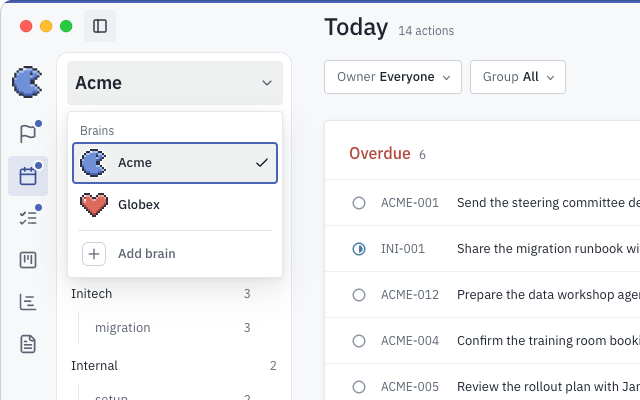
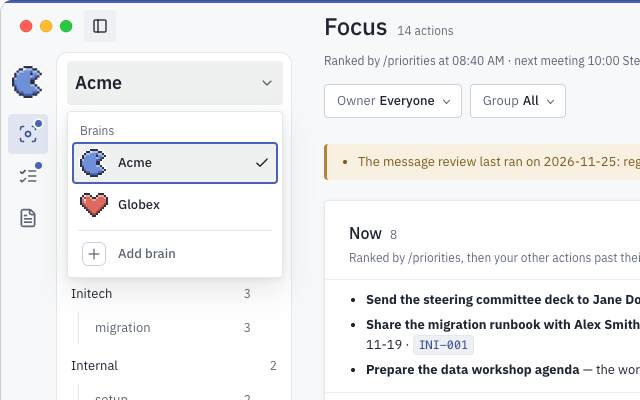
docs(tasks-web): describe focus, the view tabs and the sync button
Rewrite the tour of the Corvus README around the three sections, the
row of tabs, the Focus page, the Sync button and the folded rail, and
update the root README, BRAINS.md and the tools index. Retake the
screenshots from a demo workspace of fictitious brains; one Focus
screenshot replaces the Today and Priorities ones.

diff --git a/tools/tasks-web/README.md b/tools/tasks-web/README.md
@@ -2,7 +2,7 @@
 
 Corvus is the local app of Work: it shows the actions and the notes of your brains, and lets you change them without an agent. It opens in a window of its own on macOS, Windows and Linux, or in a browser tab. Everything stays on your computer: the server listens on `127.0.0.1` only, keeps no copy of your data and writes every change into the brain's own Markdown files, which your agents read too. Back to the [root README](../../README.md).
 
-![Corvus on macOS: the Today view, with the rail of views and the project card](../../docs/images/tasks-web-today.png)
+![Corvus on macOS: the Focus page, with the rail of sections and the project card](../../docs/images/tasks-web-focus.png)
 
 This guide first lists what Corvus does, then shows how its parts fit together, how to install it and how to launch it. It ends with a tour of the views and the keyboard shortcuts.
 
@@ -10,9 +10,9 @@ This guide first lists what Corvus does, then shows how its parts fit together, 
 
 Corvus brings the registers of every brain into one window, so that the day's work can be read and updated in a few clicks.
 
-- Today gathers what is overdue, due today, in progress, waiting on someone else and due in the week ahead.
+- Focus answers one question on one page, what to do now: the ranking of the `/priorities` agent skill, then what is overdue, due today, in progress, to chase, waiting on someone else and due in the week ahead.
 - Every action can be changed in place (status, owner, due date, priority, subtasks, notes), and every change can be undone.
-- The Board, the Timeline and the Docs view show the same actions as columns, as dates and next to the notes of each project.
+- Actions shows the same actions as a list, a board or a timeline, with the same filters, and Docs shows them next to the notes of each project.
 - One search field looks through the actions and every Markdown document of the brain.
 - A selector switches between your brains without restarting anything, and each brain keeps its own colour and logo.
 - Sync saves and sends the changes of each brain, and brings in the changes made on another computer.
@@ -53,43 +53,49 @@ Then open `http://127.0.0.1:8765/` (`--port N` for another port, `Ctrl+C` to sto
 
 ## Tour
 
-The tour follows the sidebar from top to bottom: the views of the day, then the brains, Sync and the window itself.
+The sidebar holds three sections, Focus, Actions and Docs, and Settings at the bottom. Under the title, a row of tabs lists the views of the section (for example List, Board and Timeline). A section opens on the view used last, and its views share the same filters. Sync is the button at the top right. The tour follows that order, then shows the brains, the window and the updates.
 
-### Today
+### Focus
 
-The opening view lists your overdue actions, those due today, those in progress, the follow-ups to make with others and what you wait on, then the week ahead. Each action appears once, in the first section that fits.
+**Focus** is the opening page. It brings together the ranking that the `/priorities` agent skill writes for the brain and the actions of the registers, so that the next thing to do is at the top. A line under the title says when the ranking was written and names the next meeting.
 
-### Priorities
+- **Now** lists the ranked items to do now, then the other actions past their due date or due today.
+- **To prepare**, **Conflicts** and **New requests** come from the ranking.
+- **In progress**, **To chase**, **Waiting on others** and **This week** come from the registers; To chase and Waiting on others are sorted by owner, and each follow-up carries a draft of the message with a button to copy it.
 
-The ranking written by the `/priorities` agent skill for the current brain: what to do now, what to prepare, the conflicts and the follow-ups. An action ID in an item opens that action, and each follow-up carries a draft of the message with a button to copy it.
+Each action appears once, in the first block that fits, and an empty block is left out. An action ID in a ranked item opens that action. When the ranking is not today's, or a project is chosen, the page shows the actions alone and says why.
 
-![The Priorities view](../../docs/images/tasks-web-priorities.png)
+### Actions: List, Board and Timeline
 
-### Actions and the detail panel
+The three views show the same actions with the same filters.
 
-Actions are listed by project and group, each with its progress and its overdue count. A click on the status or the due date changes it in place; a click on a row opens the detail panel with the fields, the subtasks and the history of notes. Every write goes through `action.py` and can be undone. Dragging the left edge of the panel widens it.
+- **List** groups the actions by project and group, each with its progress and its overdue count. A click on the status or the due date changes it in place; a click on a row opens the detail panel with the fields, the subtasks and the history of notes. Every write goes through `action.py` and can be undone, and dragging the left edge of the panel widens it.
+- **Board** has four columns, To do, In progress, Waiting and Recently done. Dragging a card changes its status. The board shows your own cards unless you switch to Everyone.
+- **Timeline** places the actions with a deadline on a chronological frieze (2 weeks, 6 weeks or a quarter), one lane per project, overdue first. Those without a deadline wait in a tray below: dropping one on a day plans it.
 
-![Actions grouped by project](../../docs/images/tasks-web-actions.png)
+![Actions as a list, grouped by project](../../docs/images/tasks-web-actions.png)
 
 ![An action in the detail panel](../../docs/images/tasks-web-action-panel.png)
 
-### Board
+![Actions as a board](../../docs/images/tasks-web-board.png)
 
-Four columns, To do, In progress, Waiting and Recently done. Dragging a card changes its status. The board shows your own cards unless you switch to Everyone.
+![Actions on the timeline](../../docs/images/tasks-web-timeline.png)
 
-![The Board](../../docs/images/tasks-web-board.png)
+### Docs: Docs and Archives
 
-### Timeline
-
-The actions with a deadline sit on a chronological frieze (2 weeks, 6 weeks or a quarter), one lane per project, overdue first. Those without a deadline wait in a tray below: dropping one on a day plans it.
-
-![The Timeline](../../docs/images/tasks-web-timeline.png)
-
-### Docs and search
-
-The notes, sources, workstreams, journal and project pages of the brain, with a reader and a Markdown editor for working notes. The search field, in every view, looks through the actions and every Markdown document at once.
+**Docs** shows the notes, sources, workstreams, journal and project pages of the brain, with a reader and a Markdown editor for working notes. **Archives** lists the clients, missions and projects moved to an archive, read-only, and can bring one back. The search field, in every view, looks through the actions and every Markdown document at once.
 
 ![Docs, with a note open](../../docs/images/tasks-web-docs.png)
+
+### Sync
+
+Each brain is a Git repository. The Sync button at the top right shows, for the current brain, how many changes made on another computer are waiting online, or a dot when notes are waiting to be saved and sent; a click opens the Sync view. That view shows one card per brain. **Save and send** records the changed notes and sends them to the brain's online copy, through the brain's own Git hooks. Corvus checks the online copies when it opens and every ten minutes; when a brain is behind, its card offers **Sync**, which brings the changes in as a fast-forward only, never with a merge commit or a rewrite of history.
+
+![The Sync view, with a brain to bring up to date](../../docs/images/tasks-web-sync.png)
+
+### Settings: Settings and Tools
+
+**Settings** shows what is left to set up in the workspace and the settings that can be changed. **Tools** runs the workspace commands; none of them sends anything to an external service.
 
 ### Brains
 
@@ -97,17 +103,11 @@ The brain's name at the top of the sidebar opens the brain menu: it switches bra
 
 ![The brain menu](../../docs/images/tasks-web-brain-menu.png)
 
-### Sync
-
-Each brain is a Git repository. The Sync view shows one card per brain and says what is waiting: notes to save and send, or changes made on another computer. **Save and send** records the changed notes and sends them to the brain's online copy, through the brain's own Git hooks. Corvus checks the online copies when it opens and every ten minutes; when a brain is behind, its card and the sidebar offer **Sync**, which brings the changes in as a fast-forward only, never with a merge commit or a rewrite of history.
-
-![The Sync view, with a brain to bring up to date](../../docs/images/tasks-web-sync.png)
-
 ### Sidebar, window and dark mode
 
-On the left, a rail holds the views and, at the bottom, Archives, Tools, Sync and Settings. Next to it, the project card lists the projects of the brain; its edge can be dragged to widen it. The sidebar button, or the `[` key, folds the card away; the pointer on a view then shows the card over the page, with that view named above the projects, and a project chosen there opens in that view. On macOS the window has no separate title bar: its three buttons sit at the top of the rail. The page follows the light or dark setting of the system.
+On the left, a rail holds the three sections and, at the bottom, Settings. Next to it, the project card lists the projects of the brain; its edge can be dragged to widen it. The sidebar button, or the `[` key, folds the card away. The rail then shows the main projects by their first letters: the pointer on one gives its full name and its number of open actions, and a click filters the view. The pointer on Focus, Actions or Docs shows the card over the page, with the view it will open named above the projects. In Archives, Tools, Settings and Sync, which the projects do not filter, the card steps aside. The window has the same layout on macOS, Windows and Linux; on macOS it has no separate title bar, and its three buttons sit at the top left, before the sidebar button. The page follows the light or dark setting of the system.
 
-![The card folded away, shown again over the page from the Timeline icon, in dark mode](../../docs/images/tasks-web-rail-dark.png)
+![The card folded away, shown again over the page from the Actions icon, in dark mode](../../docs/images/tasks-web-rail-dark.png)
 
 ### Update
 
@@ -123,8 +123,9 @@ The single keys do not apply while typing in a field. `?` shows their help, and 
 |---|---|
 | `/` | Search the actions and the documents |
 | `n` | New action |
-| `0` to `5` | Priorities, Today, Actions, Board, Timeline, Docs |
-| `j` `k`, `↓` `↑` | Next or previous action (Today, Actions, Board, Timeline) |
+| `1` to `3` | Focus, Actions, Docs, each on the view used last |
+| `v`, ⇧ `v` | Next or previous view of the section (List, Board, Timeline…) |
+| `j` `k`, `↓` `↑` | Next or previous action (Focus, List, Board, Timeline) |
 | `←` `→` `↑` `↓` | On a Timeline chip: by date, and by project |
 | Alt `←` `→` | On a Timeline chip: move its deadline by a day (with Shift, a week) |
 | Enter | Open the details of the selected action |
@@ -143,7 +144,7 @@ In a list, only the selected row (otherwise the first one) is in the tab order: 
 
 [`REFERENCE.md`](REFERENCE.md) holds the details:
 - [Install the app](REFERENCE.md#install-the-app) and the [layout](REFERENCE.md#layout).
-- The views and their routes: [Priorities](REFERENCE.md#priorities), [Today](REFERENCE.md#today), [Actions](REFERENCE.md#actions-and-detail-panel), [Board](REFERENCE.md#board), [Timeline](REFERENCE.md#timeline), [Groups](REFERENCE.md#groups), [Docs and Search](REFERENCE.md#docs-and-search), [Archives](REFERENCE.md#archives), [Tools](REFERENCE.md#tools), [Sync](REFERENCE.md#sync), [Update](REFERENCE.md#update) and [Settings](REFERENCE.md#settings).
+- The views and their routes: [Focus](REFERENCE.md#focus), [Actions](REFERENCE.md#actions-and-detail-panel), [Board](REFERENCE.md#board), [Timeline](REFERENCE.md#timeline), [Groups](REFERENCE.md#groups), [Docs and Search](REFERENCE.md#docs-and-search), [Archives](REFERENCE.md#archives), [Tools](REFERENCE.md#tools), [Sync](REFERENCE.md#sync), [Update](REFERENCE.md#update) and [Settings](REFERENCE.md#settings).
 - [Several brains](REFERENCE.md#several-brains).
 - The [priorities file format](REFERENCE.md#priorities-file).
 - [Data and security](REFERENCE.md#data-and-security).

diff --git a/README.md b/README.md
@@ -19,7 +19,7 @@
 
 Work is a portable `Work/` workspace that fixes this. Memory lives in private Markdown repositories called brains, one per trust boundary. Agents read them through small commands that return only the part a question needs. Git hooks keep the boundaries intact. A local app, Corvus, lets you read and edit the same files without an agent. The repository holds the tools, the shared conventions and the checks. It holds no client data.
 
-![Corvus, the local app: the Today view](docs/images/tasks-web-today.png)
+![Corvus, the local app: the Focus page](docs/images/tasks-web-focus.png)
 
 ## Features
 
@@ -27,13 +27,13 @@ Work is a portable `Work/` workspace that fixes this. Memory lives in private Ma
 - **Context on demand.** `brain-state.py` loads output, not files: `brief` for where a project stands, `find` for a term or an identifier, `section` for one heading of a page, `person` for someone and what they carry, `due` for late and upcoming actions, `changes` for what moved since a date. Agents never read a register or a project page whole.
 - **Action and decision registers.** `action.py` and `decision.py` write the registers, with length caps (35 words for a history entry, 40 for a timeline entry, 70 for a decision field). A commitment becomes an action only when four tests hold; otherwise it stays in the minutes or message where it was said.
 - **Project archiving.** `brain-state.py archive` moves a finished mission, project or client into an `archive/` folder, rewrites the links, and refuses while an action is still open. An archived project leaves every command and every view. `unarchive` is the exact inverse.
-- **Corvus, a local app.** `tasks-web.py` serves the views Today, Priorities, Actions, Board, Timeline, Docs, Archives, Tools, Sync and Settings on `127.0.0.1`, with one search across actions and documents. A selector switches between brains. Sync saves and sends a brain's changed notes through its own Git hooks, and brings in the changes made on another computer as a fast-forward only. `install-app.py` installs it as an app on macOS, Windows and Linux, in a window of its own.
+- **Corvus, a local app.** `tasks-web.py` serves three sections on `127.0.0.1`, Focus (the `/priorities` ranking with the actions due), Actions (List, Board, Timeline) and Docs (with Archives), plus Settings (with Tools), a Sync button that counts the changes waiting online, and one search across actions and documents. A selector switches between brains. Sync saves and sends a brain's changed notes through its own Git hooks, and brings in the changes made on another computer as a fast-forward only. `install-app.py` installs it as an app on macOS, Windows and Linux, in a window of its own.
 - **Guardrails.** Git hooks refuse staged secrets, the names of clients and people known to the other brains, malformed commit messages, dead or cross-brain links, and pushes with the wrong identity, a force push or a remote branch deletion. A Claude Code hook refuses direct `python`, deletions in the artifacts folder, hook bypasses and writes into an `artifacts/` folder not yet linked to the configured one. `preflight-push.py` runs before every push.
 - **Obsidian compatible.** Open `Work/` as the vault. Each brain's `tasks.md` shows the registers as Tasks queries and a kanban, with a form to add an action.
 - **Releases.** Every push to `main` is tested on Linux and released automatically from its Conventional Commits. Machines update to a release only, never to the tip of `main`, and an update never touches the brains.
 
 
-![Corvus in dark mode: the project card shown over the page from the Timeline icon](docs/images/tasks-web-rail-dark.png)
+![Corvus in dark mode: the project card shown over the page from the Actions icon](docs/images/tasks-web-rail-dark.png)
 
 ## How it works
 

diff --git a/tools/README.md b/tools/README.md
@@ -36,7 +36,7 @@ The tools act on the default brain, or on another brain with `BRAIN_DIR` (`--bra
 
 | Command | Role | Guide |
 |---|---|---|
-| `uv run tools/tasks-web/tasks-web.py [--port N] [--brain DIR]` | Local web interface for actions (Priorities, Today, Actions, Board, Timeline, Docs, Tools, Sync, and one global search of the actions and the documents) on `http://127.0.0.1:8765/`; a selector at the top left switches between the brains of the workspace without a restart (`?brain=<name>`, `GET /api/brains`; `--brain` sets the default brain); the Tools view runs predefined commands (links, brains, transcripts, actions, repositories); the Sync view saves and sends the changed notes of each brain (one card per brain, a confirmation, then `git add -A`, `git commit` and `git push` of that brain only, every hook running); `tasks-web.py` is the entry point, the code is in the package `tasks-web/tasksweb/` and the page's script in `tasks-web/static/app/` (guide, "Code layout") | [README.md](tasks-web/README.md) |
+| `uv run tools/tasks-web/tasks-web.py [--port N] [--brain DIR]` | Local web interface for actions (Focus, Actions, Board, Timeline, Docs, Archives, Settings, Tools, Sync, and one global search of the actions and the documents) on `http://127.0.0.1:8765/`; a selector at the top left switches between the brains of the workspace without a restart (`?brain=<name>`, `GET /api/brains`; `--brain` sets the default brain); the Tools view runs predefined commands (links, brains, transcripts, actions, repositories); the Sync view saves and sends the changed notes of each brain (one card per brain, a confirmation, then `git add -A`, `git commit` and `git push` of that brain only, every hook running); `tasks-web.py` is the entry point, the code is in the package `tasks-web/tasksweb/` and the page's script in `tasks-web/static/app/` (guide, "Code layout") | [README.md](tasks-web/README.md) |
 | `uv run tools/tasks-web/install-app.py [--dry-run] [--uninstall]` | Installs the "Corvus" launcher of this system, which opens the app in a native window on macOS and Windows (`window.py`, pywebview), on Linux and as a fallback in a Chrome, Chromium or Edge app window, else in the browser: the macOS app bundle in the artifacts folder (`--replace` moves an existing one, an "Actions Brain" one included, to `archive/` first, nothing is overwritten), a Windows Start Menu shortcut (`--desktop` adds one on the Desktop) or a Linux applications menu entry; `--uninstall` removes only what it wrote | [README.md](tasks-web/README.md) |
 | `uv run --script tools/tasks-web/launch.py` | Launcher run by those entries (macOS, Windows, Linux): opens the page, starting the server on port 8765 first when needed (log and PID in `agents/`), refuses when another program holds the port | [README.md](tasks-web/README.md) |
 | `uv run tools/tasks-web/make-icon.py` | Writes the app icon into `tasks-web/static/` (SVG, PNG, ICO, ICNS) | [README.md](tasks-web/README.md) |

diff --git a/docs/BRAINS.md b/docs/BRAINS.md
@@ -50,4 +50,4 @@ Closed actions older than 30 days move to `state/actions-archive-YYYY.md` with `
 
 ## Corvus, the local app
 
-Run `uv run tools/tasks-web/tasks-web.py` and open `http://127.0.0.1:8765/`: a sidebar with the views Today, Actions, Board, Timeline, Docs, Archives, Tools, Sync and Settings, a search field in the header that searches the actions and the documents, the **New action** and **New note** buttons, and a selector at the top left that switches between the brains of the Work without a restart. The Sync view shows one card per brain and, after a confirmation, saves its changed notes and sends them to the brain's own online copy, through the brain's Git hooks. An **Update** button appears when a newer release exists. `uv run tools/tasks-web/install-app.py` installs a **Corvus** entry (macOS app, Windows Start Menu shortcut, Linux applications menu) that opens the page in a window of its own (a native one on macOS and Windows, a Chrome or Edge app window on Linux); on macOS, `./tools/tasks-web/build-dock-app.sh` runs the same installer. Both routes read and edit the same Markdown files; details are in [the local task manager guide](../tools/tasks-web/README.md). The server binds only to `127.0.0.1` and publishes nothing by itself: a brain leaves this computer only when you click **Save and send** or **Send** in the Sync view.
+Run `uv run tools/tasks-web/tasks-web.py` and open `http://127.0.0.1:8765/`: a sidebar with three sections, Focus (the `/priorities` ranking with the actions due), Actions (List, Board, Timeline) and Docs (with Archives), plus Settings (with Tools), a Sync button and a search field in the header that searches the actions and the documents, the **New action** and **New note** buttons, and a selector at the top left that switches between the brains of the Work without a restart. The Sync view shows one card per brain and, after a confirmation, saves its changed notes and sends them to the brain's own online copy, through the brain's Git hooks. An **Update** button appears when a newer release exists. `uv run tools/tasks-web/install-app.py` installs a **Corvus** entry (macOS app, Windows Start Menu shortcut, Linux applications menu) that opens the page in a window of its own (a native one on macOS and Windows, a Chrome or Edge app window on Linux); on macOS, `./tools/tasks-web/build-dock-app.sh` runs the same installer. Both routes read and edit the same Markdown files; details are in [the local task manager guide](../tools/tasks-web/README.md). The server binds only to `127.0.0.1` and publishes nothing by itself: a brain leaves this computer only when you click **Save and send** or **Send** in the Sync view.
